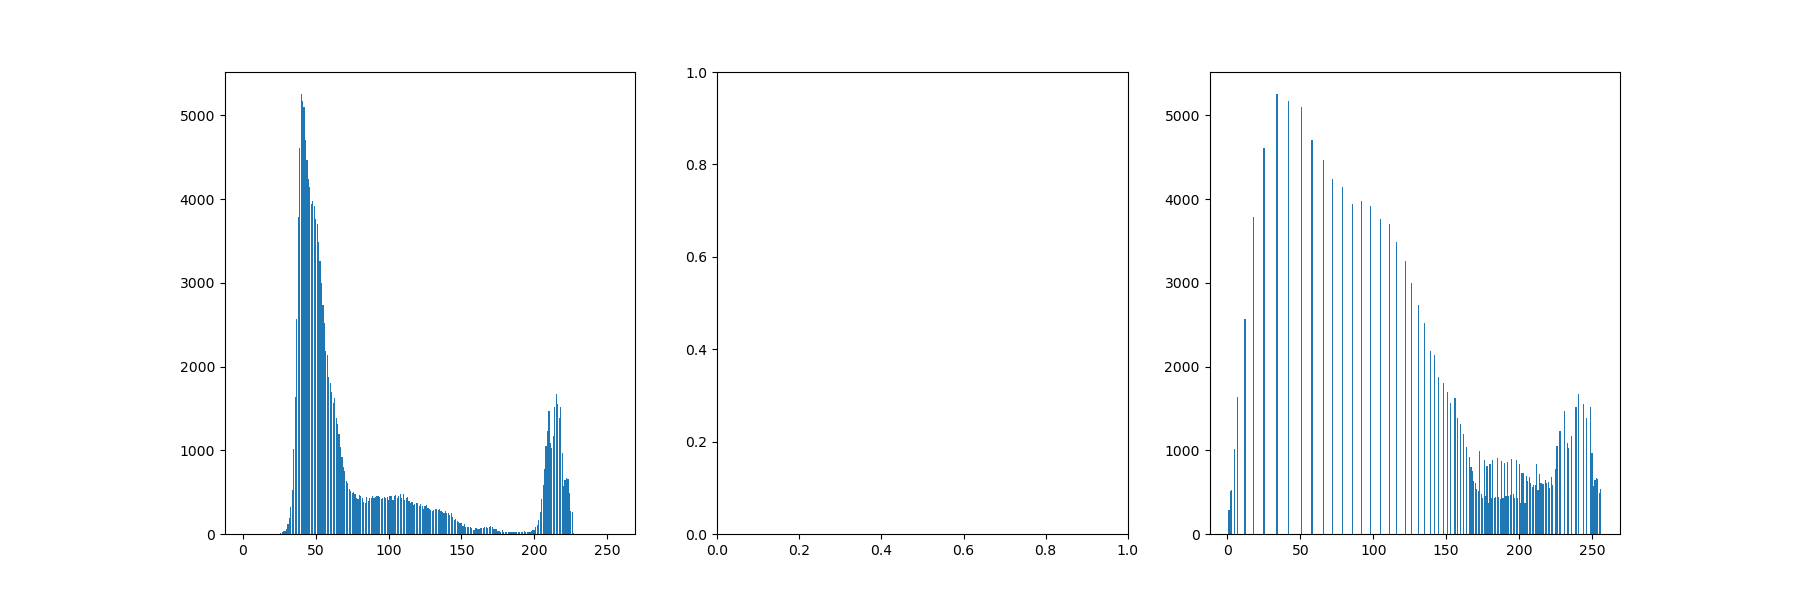
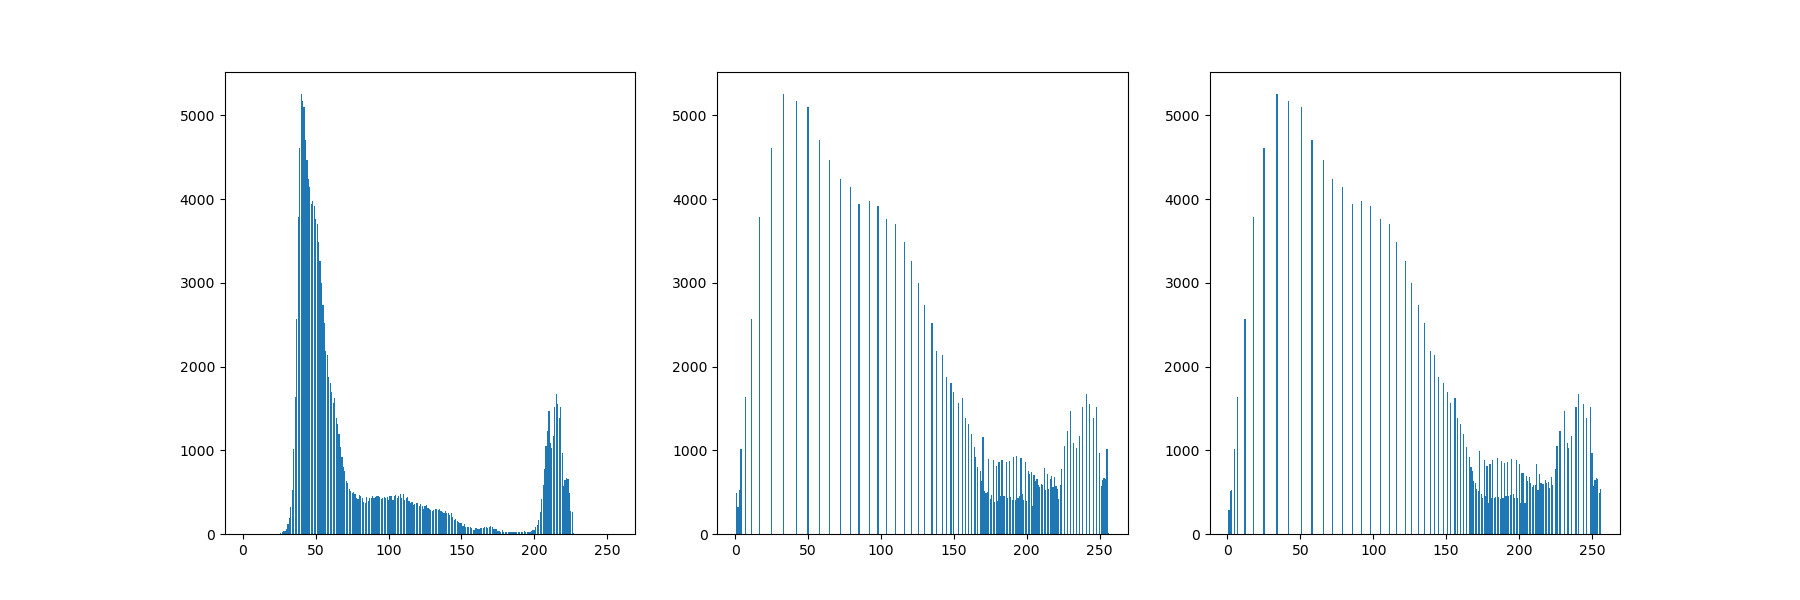
lab1-2_finished uploaded

diff --git a/lab1-2/lab1-2_finished.py b/lab1-2/lab1-2_finished.py
@@ -17,23 +17,37 @@ def gammaCorrection(img, gamma=1.0):
     return img_g
 
 
-
+# Histogram Equalization Ref.: https://www.itread01.com/content/1540993224.html
 def histEq(gray):
     # Calculate histogram
     hist = cv2.calcHist([gray], [0], None, [256], [0, 256]).reshape(-1)
     hist = hist / gray.size
     print(hist)
 
-    # Convert the histogram to Cumulative Distribution Function
+    # Convert the histogram to Cumulative Distribution Function (CDF)
     # TODO
+    histogram = np.bincount(gray.flatten(), minlength=256)
+    cdf = np.cumsum(histogram)
+    print(cdf)
+    # print(histogram / gray.size) = print(hist)
 
     # Build a lookup table mapping the pixel values [0, 255] to their new grayscale value
     # TODO
+    uniform_hist = 255 * (cdf / (gray.size * 1.0))
+    uniform_hist = uniform_hist.astype('uint8')
 
     # Apply histogram equalization using the lookup table
     # TODO
+    height, width = gray.shape
+    img_h = np.zeros(gray.shape, dtype='uint8')  # Note the type of elements
+    for i in range(height):
+        for j in range(width):
+            img_h[i,j] = uniform_hist[gray[i,j]]
 
     return img_h
+
+
+
 
 
 # ------------------ #
@@ -56,7 +70,7 @@ cv2.imwrite('data_g0.5.png', img_g1*255)    # img_g1*255: Modify the range from 
 cv2.imwrite('data_g2.png', img_g2*255)      # img_g2*255: Modify the range from 0-1 to 0-255
 
 # Use matplotlib to display multiple images
-plt.figure(1)
+plt.figure(1, figsize=(18, 6))
 
 plt.subplot(1,3,1)
 plt.imshow(gray, cmap='gray')
@@ -76,8 +90,6 @@ plt.title('data_g2.png', fontsize=12)
 plt.xticks([])
 plt.yticks([])
 
-plt.show()
-
 
 
 
@@ -87,17 +99,19 @@ plt.show()
 name = "../hist.png"
 img = cv2.imread(name, 0)
 
-#img_h = histEq(img)
+img_h = histEq(img)
 img_h_cv = cv2.equalizeHist(img)
-#cv2.imwrite("hist_h.png", img_h)
+cv2.imwrite("hist_h.png", img_h)
 cv2.imwrite("hist_h_cv.png", img_h_cv)
 
 # save histogram
-plt.figure(figsize=(18, 6))
+plt.figure(2, figsize=(18, 6))
 plt.subplot(1,3,1)
 plt.bar(range(1,257), cv2.calcHist([img], [0], None, [256], [0, 256]).reshape(-1))
 plt.subplot(1,3,2)
-#plt.bar(range(1,257), cv2.calcHist([img_h], [0], None, [256], [0, 256]).reshape(-1))
+plt.bar(range(1,257), cv2.calcHist([img_h], [0], None, [256], [0, 256]).reshape(-1))
 plt.subplot(1,3,3)
 plt.bar(range(1,257), cv2.calcHist([img_h_cv], [0], None, [256], [0, 256]).reshape(-1))
 plt.savefig('hist_plot.png')
+
+plt.show()
